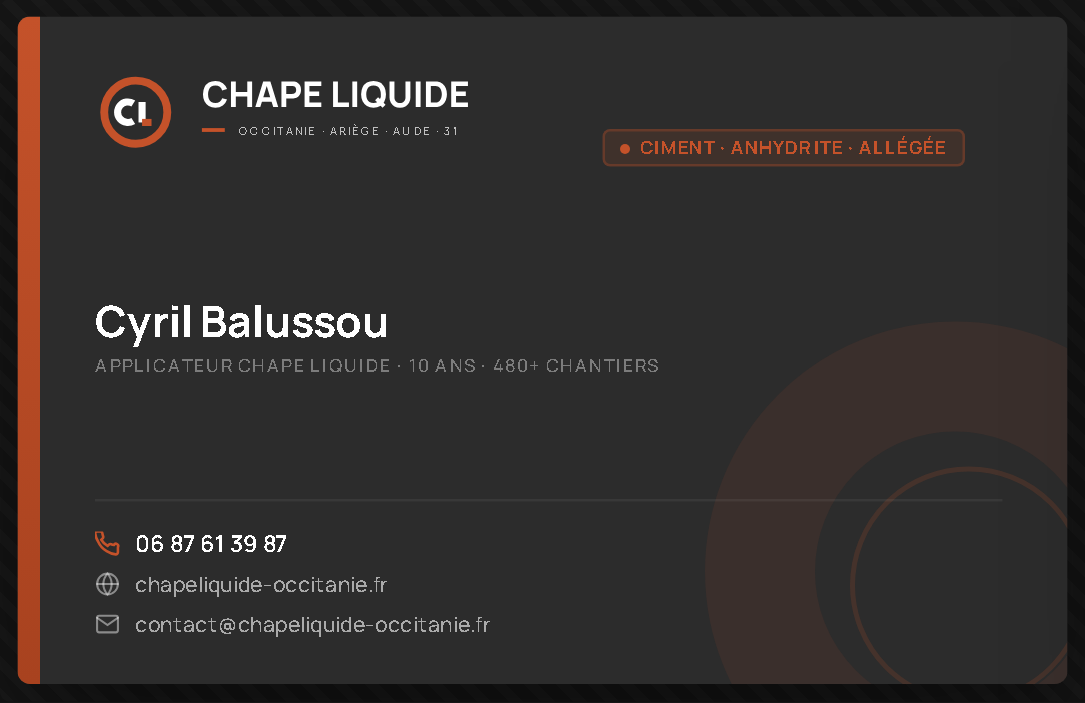
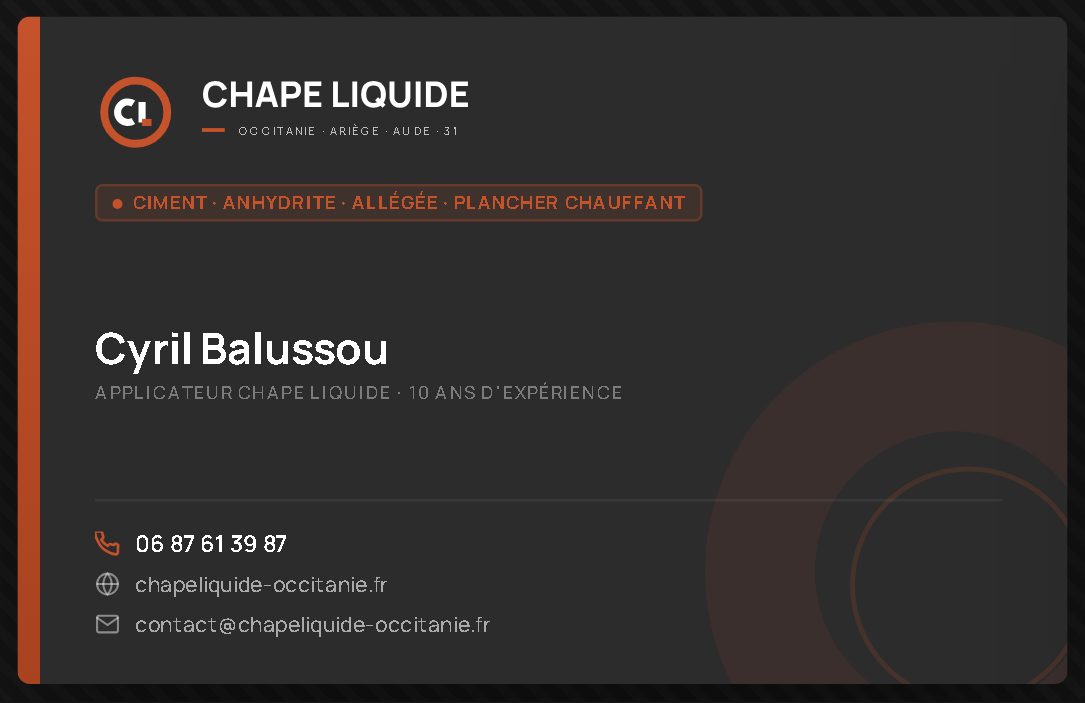
fix: carte de visite — expérience + plancher chauffant
- Role : «10 ans · 480+ chantiers» → «10 ans d'expérience»
- Spécialités : ajout «Plancher chauffant» (recto badge, verso tagline, carte virtuelle)

Changed region(s): [[0.0912, 0.1792, 0.882, 0.3286], [0.0912, 0.4182, 0.6083, 0.5676]]

diff --git a/internal/cartes-visite/carte-visite-clo.html b/internal/cartes-visite/carte-visite-clo.html
@@ -202,14 +202,14 @@
       </svg>
       <div class="vc-badge">
         <div class="vc-badge-dot"></div>
-        <span>Ciment · Anhydrite · Allégée</span>
+        <span>Ciment · Anhydrite · Allégée · Plancher chauffant</span>
       </div>
     </div>
 
     <div>
       <div class="vc-divider"></div>
       <div class="vc-name">Cyril Balussou</div>
-      <div class="vc-role">Applicateur chape liquide · 480+ chantiers · 90 000+ m²</div>
+      <div class="vc-role">Applicateur chape liquide · 10 ans d'expérience</div>
       <div class="vc-contacts">
         <div class="vc-row">
           <svg class="vc-ico" viewBox="0 0 24 24" fill="none" stroke="#C4522A" stroke-width="2.2" stroke-linecap="round"><path d="M22 16.92v3a2 2 0 01-2.18 2 19.79 19.79 0 01-8.63-3.07A19.5 19.5 0 013.07 9.81 19.79 19.79 0 01.1 1.18 2 2 0 012.09.02h3a2 2 0 012 1.72c.13.96.36 1.90.7 2.81a2 2 0 01-.45 2.11L6.09 7.91a16 16 0 006 6l1.27-1.27a2 2 0 012.11-.45c.91.34 1.85.57 2.81.7A2 2 0 0122 14.92v2z"/></svg>
@@ -266,12 +266,12 @@
               </svg>
               <div class="pr-agr">
                 <div style="width:4px;height:4px;border-radius:50%;background:#C4522A;flex-shrink:0"></div>
-                <span>Ciment · Anhydrite · Allégée</span>
+                <span>Ciment · Anhydrite · Allégée · Plancher chauffant</span>
               </div>
             </div>
             <div class="pr-mid">
               <div class="pr-name">Cyril Balussou</div>
-              <div class="pr-role">Applicateur chape liquide · 10 ans · 480+ chantiers</div>
+              <div class="pr-role">Applicateur chape liquide · 10 ans d'expérience</div>
             </div>
             <div class="pr-bot">
               <div class="pr-div"></div>
@@ -311,7 +311,7 @@
             </svg>
             <div class="pv-line"></div>
             <div style="font-size:17px;font-weight:800;color:#fff;letter-spacing:-0.02em;text-align:center;line-height:1.15;text-shadow:0 2px 10px rgba(0,0,0,0.2);">Chape Liquide<br>Occitanie</div>
-            <div class="pv-tagline">Ciment · Anhydrite · Allégée</div>
+            <div class="pv-tagline">Ciment · Anhydrite · Allégée · Plancher chauffant</div>
             <div class="pv-dept">Ariège · Aude · Haute-Garonne</div>
           </div>
         </div>
